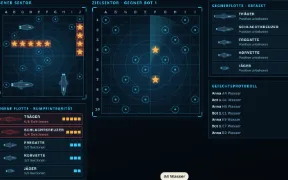
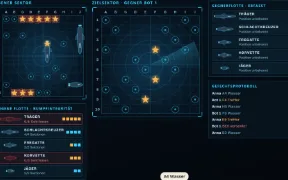
fix(schiffe): static radar cone in the space skin
Der dauerhaft drehende Radarschwenk im Zielsektor der Taktik-Konsole kostete im Bildraten-Test
etwa das Dreifache an Bildzeit (75 gegen 239 FPS bei 4x gedrosselter CPU). Der Kegel steht jetzt
fest; mit der Optik liegt die Bildrate bei 100-108 % der Bildrate ohne (Abnahme: mindestens 90 %).

- Neuer Test (test/ui/art-schiffe.spec.js): Bildrate mit und ohne Skin-Optik bei 4x CPU-Drosselung,
  beide Designs, Desktop und Handy, Mindestverhaeltnis 0,9.
- Vorschaubilder der Designauswahl neu aufgenommen; Aufnahmeskript kann Nachweisbilder
  (WebP, Desktop und Handy, Designauswahl) erzeugen.
- Version 3.4.1.

diff --git a/test/ui/art-schiffe.spec.js b/test/ui/art-schiffe.spec.js
@@ -3,7 +3,7 @@
 // Mit ART_CAPTURE=1 entstehen die Nachweisbilder unter docs/design/art/ART-013/.
 import { test, expect, login, selectGame, expectNoLeak } from './helpers.js';
 import { independentPlayer } from './independent-player.js';
-import { mkdirSync } from 'node:fs';
+import { mkdirSync, writeFileSync } from 'node:fs';
 import { SKINS } from '../../games/schiffe/skins.js';
 
 const DIR = 'docs/design/art/ART-013';
@@ -157,6 +157,34 @@ test('ART-013: Sinkbewegung läuft nur ohne reduzierte Bewegung und genau einmal
     await expect(page.locator('.sv-sea:not(.small) .sv-vessel.sinking')).toHaveCount(0);
     await expect(page.locator('.sv-sea:not(.small) .sv-vessel.wreck')).toHaveCount(1);
   } finally { await ben.close(); }
+});
+
+// Kosten der Optik (Abnahme der Grafik-Roadmap): Bildrate bei 4× gedrosselter CPU im Gefecht mit und ohne Skin-Optik (Attribut data-sv-skin
+// entfernt = Stile des Designs greifen nicht), Mindestverhältnis 0,9. Mit ART_CAPTURE=1 steht das beste Ergebnis in docs/design/art/ART-013/fps-<skin>-<projekt>.json.
+for (const skin of SKIN_IDS) test(`ART-013 ${skin}: Bildrate mit der Optik mindestens 90 % der Bildrate ohne (4× gedrosselte CPU)`, async ({ page, app }, info) => {
+  test.setTimeout(120000);
+  const code = await host(page, app, { skin, reduced: false });
+  const ben = await startGame(page, app, code);
+  const session = await page.context().newCDPSession(page);
+  try {
+    await placeOwn(page);
+    await page.waitForTimeout(1500);
+    await session.send('Emulation.setCPUThrottlingRate', { rate: 4 });
+    const fps = (on) => page.evaluate((on) => new Promise((resolve) => {
+      const el = document.getElementById('kg'); if (on) el.dataset.svSkin = on; else delete el.dataset.svSkin;
+      const t = []; const tick = (x) => { t.push(x); if (x - t[0] < 1500) requestAnimationFrame(tick); else resolve((t.length - 1) * 1000 / (t.at(-1) - t[0])); };
+      requestAnimationFrame(tick);
+    }), on);
+    let best = null;
+    for (let k = 0; k < 4; k++) {
+      const without = await fps(''), withArt = await fps(skin);
+      const r = { skin, project: info.project.name, fps: Math.round(withArt * 100) / 100, baselineFps: Math.round(without * 100) / 100, ratio: Math.round(withArt / without * 1000) / 1000, cpuThrottle: 4, minRatio: 0.9 };
+      if (!best || r.ratio > best.ratio) best = r;
+    }
+    if (process.env.ART_CAPTURE === '1') { mkdirSync(DIR, { recursive: true }); writeFileSync(`${DIR}/fps-${skin}-${info.project.name}.json`, JSON.stringify(best, null, 2) + String.fromCharCode(10)); }
+    console.log(`FPS ${skin} (${info.project.name}): ${best.fps} mit, ${best.baselineFps} ohne, Verhältnis ${best.ratio}`);
+    expect(best.ratio, JSON.stringify(best)).toBeGreaterThanOrEqual(0.9);
+  } finally { await session.send('Emulation.setCPUThrottlingRate', { rate: 1 }).catch(() => {}); await session.detach().catch(() => {}); await ben.close(); }
 });
 
 test('ART-013: Zuschauer sehen dasselbe Design und versenkte Schiffe, aber keine verdeckten', async ({ page, app, browser }, info) => {

diff --git a/public/games/schiffe/schiffe.css b/public/games/schiffe/schiffe.css
@@ -108,11 +108,8 @@ body.calm .sv-vessel.sinking img { animation: none; }
   linear-gradient(0deg, transparent calc(50% - .5px), rgba(57,208,255,.2) calc(50% - .5px) calc(50% + .5px), transparent calc(50% + .5px)),
   radial-gradient(circle at 50% 50%, transparent 0 17.5%, rgba(57,208,255,.2) 17.5% 18.2%, transparent 18.2% 35%, rgba(57,208,255,.16) 35% 35.7%, transparent 35.7% 52.5%, rgba(57,208,255,.13) 52.5% 53.2%, transparent 53.2% 70%, rgba(57,208,255,.1) 70% 70.7%, transparent 70.7%),
   radial-gradient(circle at 50% 50%, #0f3550, #07121d 72%); box-shadow: inset 0 0 0 1px rgba(57,208,255,.3); }
-/* Radarschwenk: nur Zielsektor auf dem Desktop, langsam (transform), aus bei „Animationen aus“ und reduzierter Bewegung */
-.kg-schiffe[data-sv-skin=space] .sv-sea:not(.small) .sv-board::after { content: ''; position: absolute; inset: 0; grid-area: 2 / 2 / 12 / 12; pointer-events: none; border-radius: 50%; background: conic-gradient(from 0deg, rgba(57,208,255,.26), rgba(57,208,255,0) 38deg, transparent 360deg); mix-blend-mode: screen; animation: sv-sweep 16s linear infinite; will-change: transform; }
-@keyframes sv-sweep { to { transform: rotate(360deg); } }
-@media (max-width: 640px), (prefers-reduced-motion: reduce) { .kg-schiffe[data-sv-skin=space] .sv-sea:not(.small) .sv-board::after { animation: none; } }
-body.calm .kg-schiffe[data-sv-skin=space] .sv-board::after { animation: none; }
+/* Radarkegel (Zielsektor): bewusst ohne dauerhafte Drehung – ein laufender Schwenk kostete im Test dreifach so viel Bildzeit (Abnahme: mindestens 90 % der Bildrate ohne Optik) */
+.kg-schiffe[data-sv-skin=space] .sv-sea:not(.small) .sv-board::after { content: ''; position: absolute; inset: 0; grid-area: 2 / 2 / 12 / 12; pointer-events: none; border-radius: 50%; background: conic-gradient(from 62deg, rgba(57,208,255,.24), rgba(57,208,255,0) 36deg, transparent 360deg); }
 .kg-schiffe[data-sv-skin=space] .sv-lab { color: #7fb8d4; font-size: 11px; font-weight: 700; letter-spacing: .05em; }
 .kg-schiffe[data-sv-skin=space] .sv-stage .sv-cell { min-height: 0; background: transparent; border-radius: 0; box-shadow: inset 0 0 0 .5px rgba(57,208,255,.17); color: transparent; position: relative; }
 .kg-schiffe[data-sv-skin=space] button.sv-cell:hover, .kg-schiffe[data-sv-skin=space] button.sv-cell:focus-visible { outline: 2px solid #ffb347; outline-offset: -2px; background: rgba(255,179,71,.1); }

diff --git a/README.md b/README.md
@@ -487,7 +487,7 @@ Bei **SIGTERM** (`docker stop`) und **SIGINT** wird ebenfalls sofort alles gespe
 
 ### Version und „Was ist neu“
 
-Die Version steht in `package.json` (jetzt **3.4.0**) und klein unter dem Schriftzug „Spieleabend“ (mit Build-Kürzel), der Commit-Hash kommt als Build-Argument ins Image: Der Workflow übergibt `GIT_COMMIT` automatisch, lokal `docker build --build-arg GIT_COMMIT=$(git rev-parse HEAD) .`. Beides steht unter **Ich** und auf `/health` (`{"ok":true,"version":"2.0.0","commit":"abc1234","uptime":…}`).
+Die Version steht in `package.json` (jetzt **3.4.1**) und klein unter dem Schriftzug „Spieleabend“ (mit Build-Kürzel), der Commit-Hash kommt als Build-Argument ins Image: Der Workflow übergibt `GIT_COMMIT` automatisch, lokal `docker build --build-arg GIT_COMMIT=$(git rev-parse HEAD) .`. Beides steht unter **Ich** und auf `/health` (`{"ok":true,"version":"2.0.0","commit":"abc1234","uptime":…}`).
 
 **Was ist neu** zeigt die neuesten erledigten Einträge aus `games/roadmap.js` – automatisch, sobald dort etwas auf erledigt gesetzt wird (mit Datum). Jeder Browser sieht den Hinweis **einmal pro neuer Haupt- oder Nebenversion** (reine Fehlerbehebungen x.y.Z öffnen ihn nicht) (gemerkt in `poker:seenVersion`; ein ganz neuer Browser bekommt ihn nicht), außerdem jederzeit über **Ich → Was ist neu?**.
 

diff --git a/CHANGELOG.md b/CHANGELOG.md
@@ -2,6 +2,10 @@
 
 Hier steht, was sich im Spieleabend geändert hat, verständlich für alle, die ihn nutzen. Die technische Anleitung für den Server steht in [docs/betrieb.md](docs/betrieb.md).
 
+## 3.4.1 – 14. November 2026
+
+* **Schiffe versenken, Taktik-Konsole:** Der Radarkegel im Zielsektor dreht sich nicht mehr dauerhaft. Die Drehung kostete beim Messen dreimal so viel Bildzeit; jetzt steht der Kegel fest, und das Spiel läuft wie mit dem klassischen Design.
+
 ## 3.4.0 – 14. November 2026
 
 * **Schiffe versenken, zweites Design „Taktik-Konsole“:** Beim Erstellen eines Tisches kann der Host jetzt zwischen „Klassisch“ und „Taktik-Konsole“ wählen (zwei Vorschaukarten, getrennt von der Spielvariante Klassisch/Salvo). Die Taktik-Konsole ist eine dunkle Weltraum-Konsole: Raumschiffe von oben, Radarringe mit langsamem Schwenk, Treffer glühen bernsteinfarben, versenkte Schiffe sind rote Wracks. Dazu zeigt sie den Zustand der eigenen Flotte (Rumpfintegrität), die Gegnerflotte (nur „Position unbekannt“ oder „vernichtet“) und ein Gefechtsprotokoll; auf dem Handy wechselt man per Reiter zwischen Zielsektor und eigener Flotte.

diff --git a/docs/betrieb.md b/docs/betrieb.md
@@ -1,6 +1,6 @@
 # Betrieb: Spieleabend aufsetzen, aktualisieren, sichern, reparieren
 
-Stand: Version **3.4.0** (14. November 2026). Diese Datei ist die vollständige Betriebsanleitung. Das README beschreibt die Spiele und die Entwicklung, hier steht alles für den Server.
+Stand: Version **3.4.1** (14. November 2026). Diese Datei ist die vollständige Betriebsanleitung. Das README beschreibt die Spiele und die Entwicklung, hier steht alles für den Server.
 
 **Inhalt**
 
